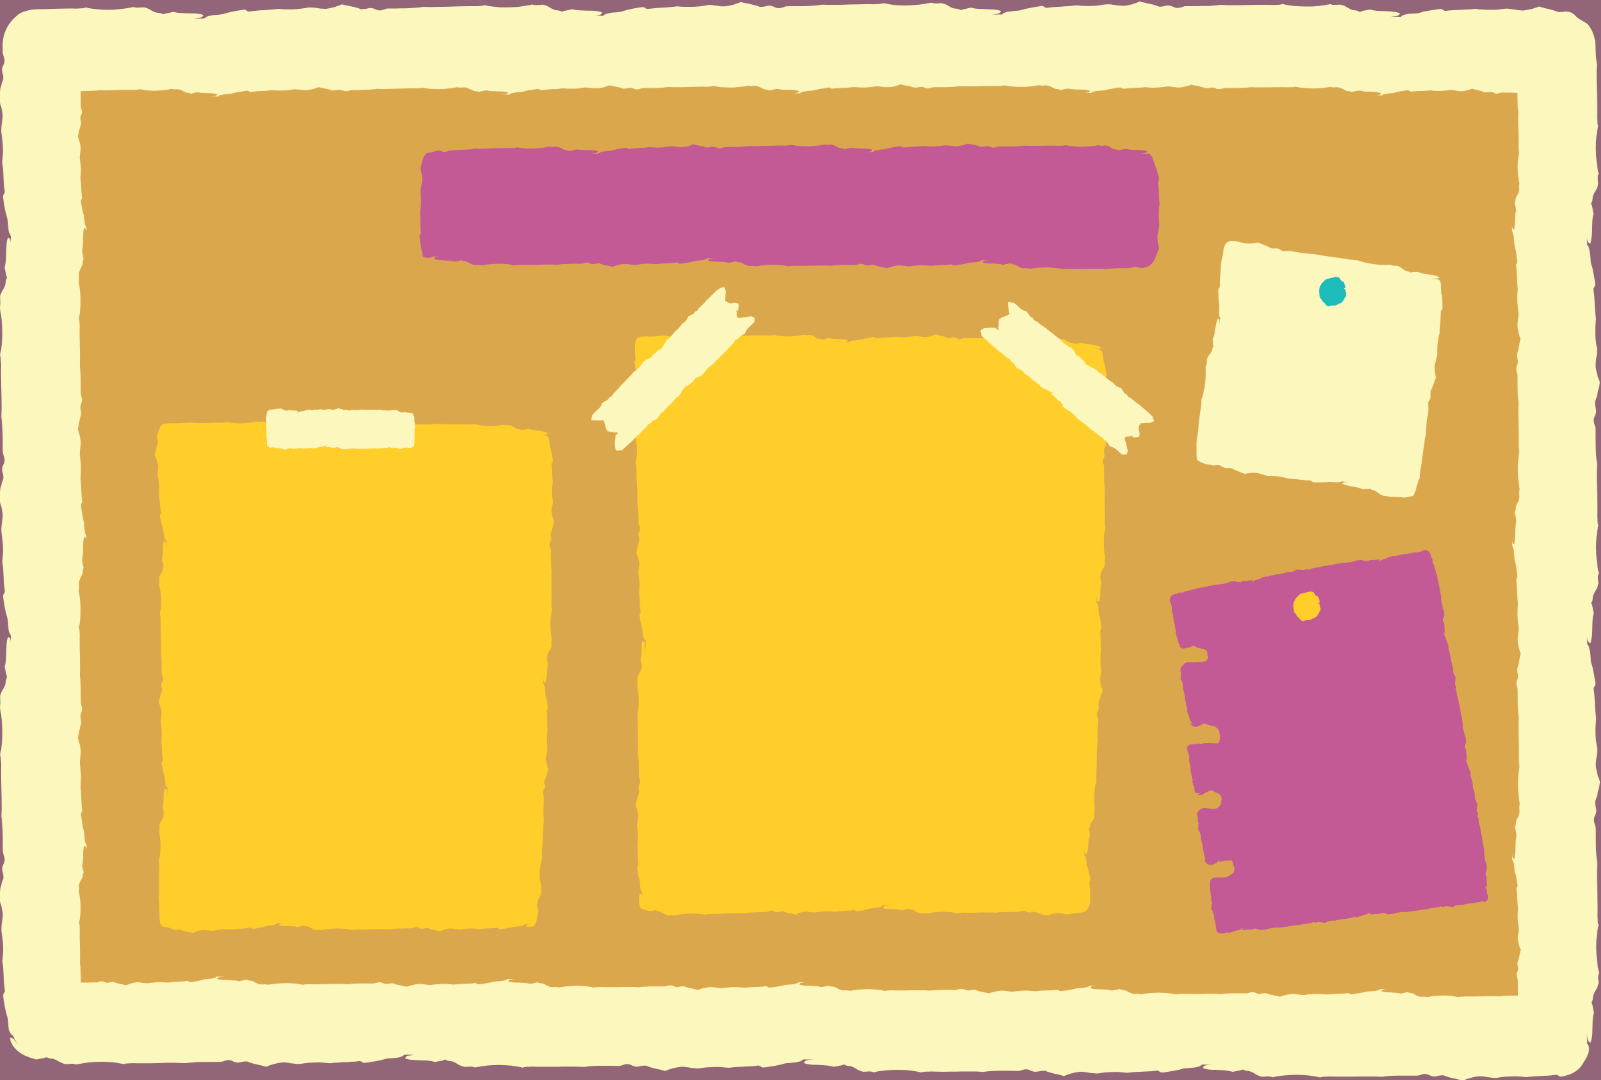
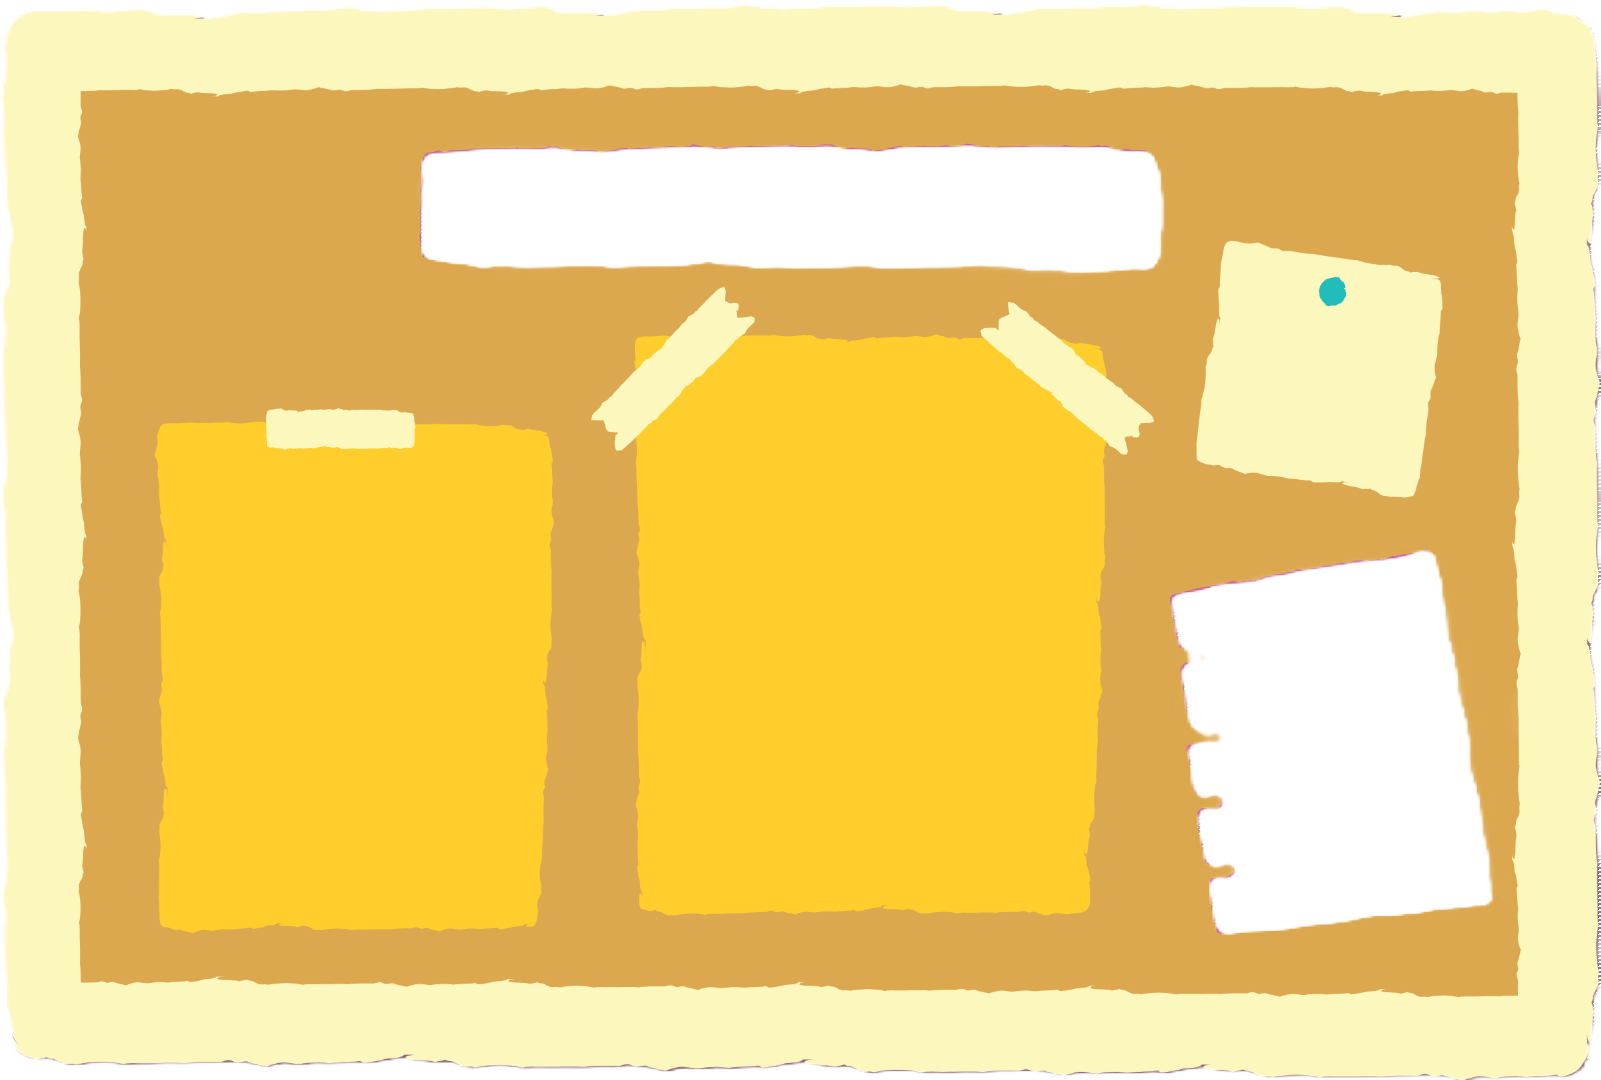
0.5 switch board back, header footer stuff

diff --git a/src/COMPONENTS/UploadPatterns/UploadPatterns.jsx b/src/COMPONENTS/UploadPatterns/UploadPatterns.jsx
@@ -41,7 +41,7 @@ function UploadPatterns() {
     <form className="upload-pattern" onSubmit={handleSubmitForm}>
       <div className="upload-pattern__label-name">
         <label className="upload-pattern__label" htmlFor="upload-pattern__name">
-          pattern name
+          pattern name*:
         </label>
         <input
           className="upload-pattern__name"
@@ -51,7 +51,7 @@ function UploadPatterns() {
       </div>
       <div className="upload-pattern__label-body">
         <label className="upload-pattern__label" htmlFor="upload-pattern__body">
-          pattern text
+          pattern text*:
         </label>
         <input
           className="upload-pattern__body"
@@ -64,7 +64,7 @@ function UploadPatterns() {
           className="upload-pattern__label"
           htmlFor="upload-pattern__attach"
         >
-          pattern image
+          pattern image:
         </label>
 
         <input

diff --git a/src/COMPONENTS/Footer/Footer.jsx b/src/COMPONENTS/Footer/Footer.jsx
@@ -4,9 +4,22 @@ import "../Footer/Footer.scss";
 function Footer() {
   return (
     <footer className="footer">
-      <button className="footer__contact">Contact</button>
-      <button className="footer__instagram">Instagram</button>
-      <button className="footer__ravelry">Ravelry</button>
+      <a
+        className="footer__item"
+        href="https://www.instagram.com/maggiesmoggies/"
+        target="_blank"
+        rel="noopener"
+      >
+        Instagram
+      </a>
+      <a
+        className="footer__item"
+        href="https://www.ravelry.com/"
+        target="_blank"
+        rel="noopener"
+      >
+        Ravelry
+      </a>
     </footer>
   );
 }

diff --git a/src/COMPONENTS/UploadPatterns/UploadPatterns.scss b/src/COMPONENTS/UploadPatterns/UploadPatterns.scss
@@ -59,13 +59,13 @@
     font-family: "Quicksand";
   }
   &__button {
-    margin: 0.5rem;
-    width: 12rem;
+    margin-top: 3rem;
+    width: 49rem;
     height: 3.4rem;
-    background-color: $plum;
-    border-color: $plum;
+    background-color: $lilac;
+    border-color: $lilac;
     border: none;
-    color: white;
+    color: black;
     font-family: "Quicksand";
     font-weight: 500;
     font-size: 1.5rem;

diff --git a/src/COMPONENTS/Footer/Footer.scss b/src/COMPONENTS/Footer/Footer.scss
@@ -23,13 +23,16 @@
       background-color: $dark-purple;
     }
   }
-  &__instagram {
+  &__item {
     margin: 0.5rem;
     width: 12rem;
     background-color: $plum;
     border-color: $plum;
     border: none;
     color: white;
+    text-align: center;
+    padding-top: 0.5rem;
+    text-decoration: none;
     font-family: "Quicksand";
     font-weight: 400;
     font-size: 1.5rem;

diff --git a/src/COMPONENTS/CommBoard/CommBoard.scss b/src/COMPONENTS/CommBoard/CommBoard.scss
@@ -3,11 +3,11 @@
 
 .board {
   font-family: "Quicksand";
-  background-image: url("../../assets/images/comm-board.png");
+  background-image: url("../../assets/images/bulletin-board.png");
   background-size: 100%;
   background-repeat: no-repeat;
   border-radius: 10px;
-  height: 80rem;
+  height: 54rem;
   margin-top: 5rem;
   &__title {
     padding: 0rem 2rem 0rem 2rem;

diff --git a/src/COMPONENTS/Header/Header.scss b/src/COMPONENTS/Header/Header.scss
@@ -69,7 +69,7 @@
   &__user {
     margin: 1rem;
     width: 12rem;
-    background-color: $plum;
+    background-color: $lilac;
     color: white;
     font-family: "Quicksand";
     font-weight: 400;
